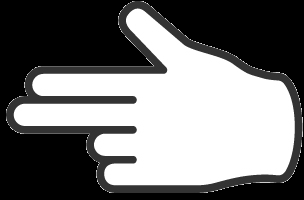
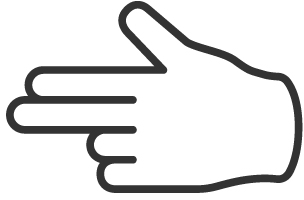
Adjust reverse images script to not delete alpha channel and regenerate reversed images

diff --git a/examples/reverse_images.py b/examples/reverse_images.py
@@ -39,6 +39,6 @@ if __name__ == "__main__":
         print(f"Output image: {output_path}")
         print("---")
 
-        img_in = cv.imread(input_path)
+        img_in = cv.imread(input_path, cv.IMREAD_UNCHANGED)
         img_out = cv.flip(img_in, 1)
         cv.imwrite(output_path, img_out)
